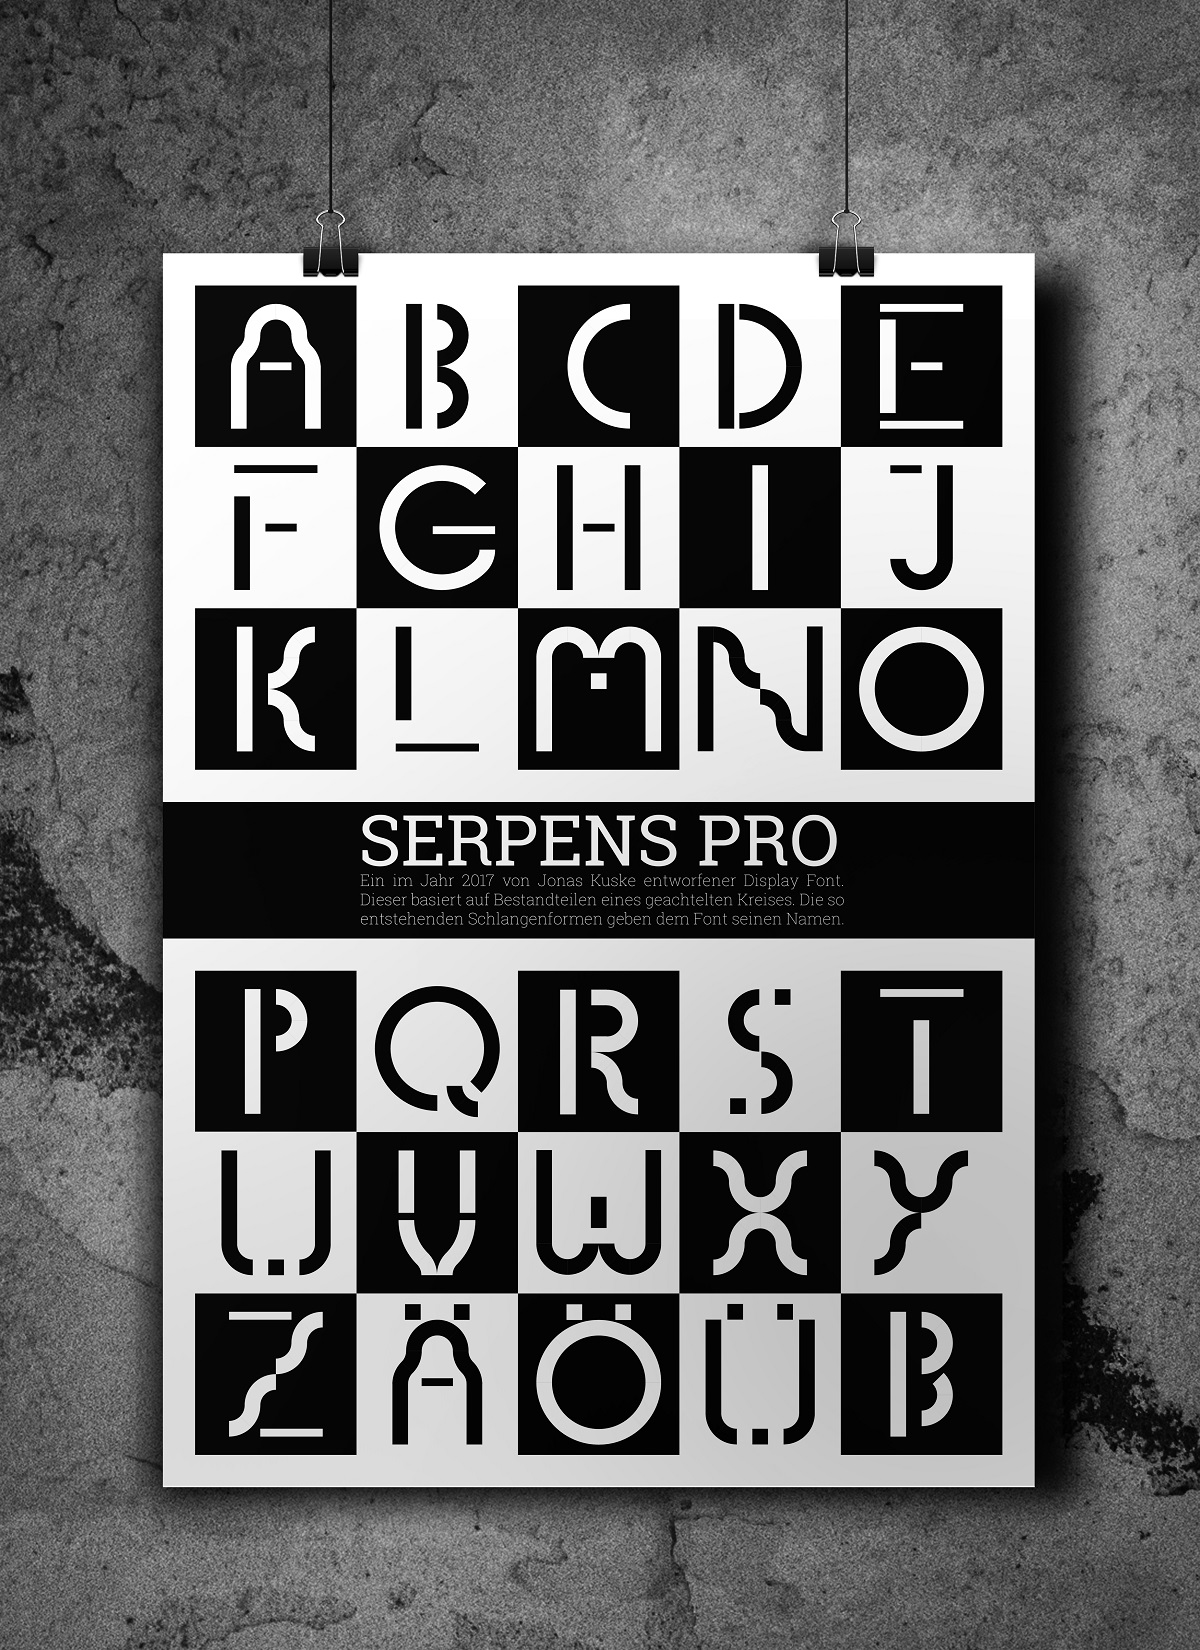
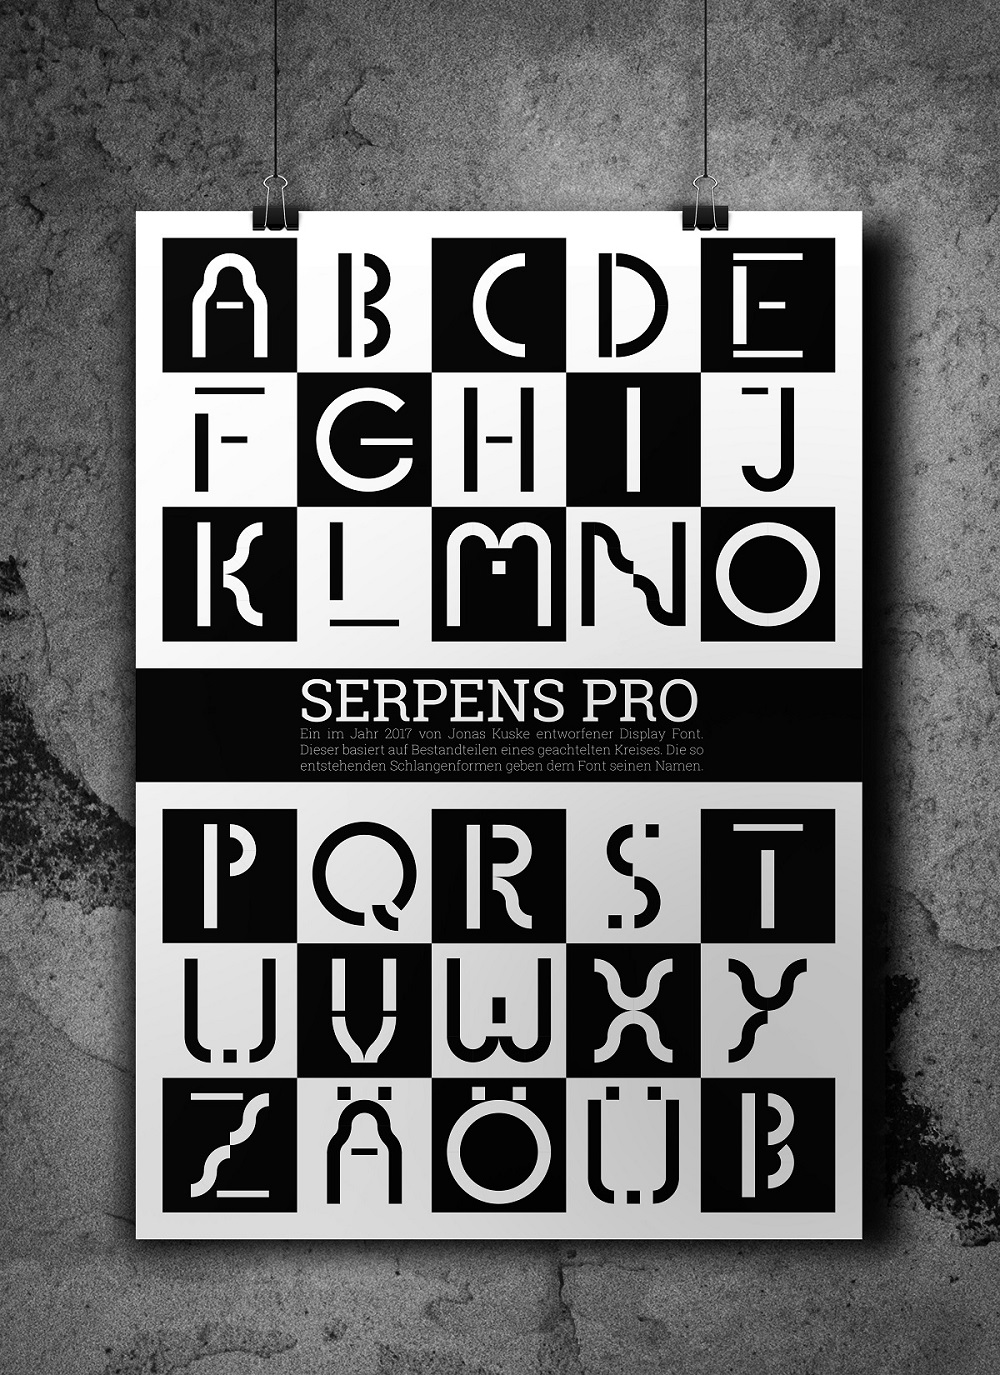
image adjustments

diff --git a/website/src/assets/projects/lsb-design/de-assets.js b/website/src/assets/projects/lsb-design/de-assets.js
@@ -1,4 +1,4 @@
-import lsbDesign from './images/showcase.png';
+import lsbDesign from './images/showcase.jpg';
 
 export default {
   title: '»Landessportbund Bremen«',

diff --git a/website/src/assets/projects/lsb-design/en-assets.js b/website/src/assets/projects/lsb-design/en-assets.js
@@ -1,4 +1,4 @@
-import lsbDesign from './images/showcase.png';
+import lsbDesign from './images/showcase.jpg';
 
 export default {
   title: '»Landessportbund Bremen«',
